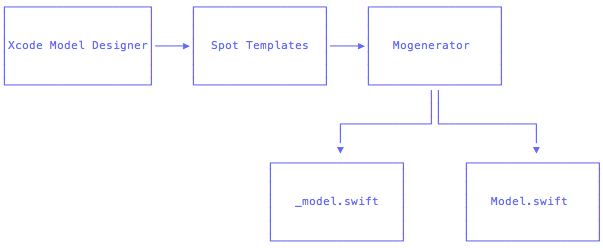
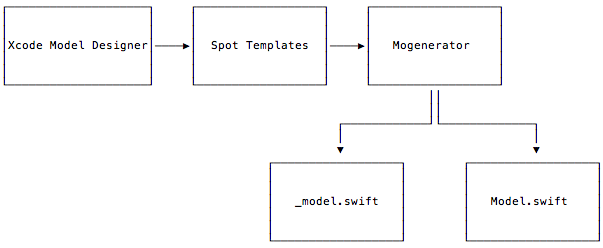
updating documentation

diff --git a/README.md b/README.md
@@ -2,7 +2,7 @@
 
 [![Carthage compatible](https://img.shields.io/badge/Carthage-compatible-4BC51D.svg?style=flat)](https://github.com/Carthage/Carthage)
 
-### A model framework for swift struct based models.
+#### A model framework for swift struct based models.
 Spot is a swift model framework that uses structs. You design models using [Xcode's Core Data model design tool](https://developer.apple.com/library/ios/recipes/xcode_help-core_data_modeling_tool/Articles/about_cd_modeling_tool.html#//apple_ref/doc/uid/TP40010379-CH3-SW1). Model code is  generated automatically using [Mogenerator](https://github.com/rentzsch/mogenerator) and provides serialization to and from Plists, XML Plists, or JSON.
 
                                                                                                                                                                                                                                                       
@@ -24,7 +24,7 @@ The process of creating your model is:
 2.  Run the model design file through mogenerator using the spot templates
 3.  Add the Spot framework and the model files to your poject
 
-![diagram1](https://cloud.githubusercontent.com/assets/84623/7276947/23cae810-e8db-11e4-8061-41a1dfd68d97.png)
+![diagram1](https://cloud.githubusercontent.com/assets/84623/7278477/bc7a567e-e8e3-11e4-834b-964161df058e.png)
   
 ## Designing your model in the Xcode model design tool
 
@@ -48,12 +48,27 @@ See the [Data Model Design Reference](https://github.com/amberstar/Spot/wiki/Dat
 
 ## Generating model code with Mogenerator
 
-### The model files
+### Install Mogenerator
+
+Mogenerator is used to generate your model code with the Spot templates. You can download Mogenerator [here](http://rentzsch.github.io/mogenerator/), or to install using [homebrew](http://mxcl.github.com/homebrew)  type `$ brew install mogenerator ` into your terminal.
+
+### Get the Spot template files
+If you downloaded the Spot project the templates are located in the [Templates](https://github.com/amberstar/Spot/tree/master/Templates) directory.
+
+### Run Mogenerator on your model design using the templates
+Type the following in to terminal to generate the model code files.
+
+```
+mogenerator --model <$path to your .xcdatamodeld file> --swift --template-path <$path to the spot templates directory> <$path to the output directory>
+```
+
+## About the model code files
+
 Two files for each entity in your model design are generated when you run Mogenerator.
 - _Model.swift
 - Model.swift  
 
-The file with the underscore prefix is the automatic file, and the other is the manual file. The automatic file is updated every time you regenerate your code after modifying the model design file. The manule file is only generated once the first time you generate code. Therefore the manual file is not overwritten and is safe for you to use for extending your models via. a swift extension.
+The file with the underscore prefix is the automatic file, and the other is the manual file. The automatic file is updated every time you regenerate your code after modifying the model design file. The manual file is only generated once the first time you generate code. Therefore the manual file is not overwritten and is safe for you to use for extending your models via. a swift extension.
 
 The manual file serves the following purposes:
 
@@ -61,10 +76,51 @@ The manual file serves the following purposes:
 - hook in to the encoding and decoding process, so you can read and write additional data during decoding and encoding if needed.
 - manage the versioning and migration of your models if and when needed.
 
+## Adding the code files and Spot framework to your project.
+
+### Adding the Spot  framework to your project
+
+#### Using Carthage
+
+[Carthage]: https://github.com/Carthage/Carthage
+
+Add the following to your Cartfile:
+
+```
+github "amberstar/Spot" ~> 0.1
+```
+
+Then run `carthage update`.
+
+Follow the current instructions in [Carthage's README][carthage-installation]
+for up to date installation instructions.
+
+#### As a Submodule
+1. Add Spot as a submodule by going to your project directory and enter the following:
+	`git submodule add https://github.com/amberstar/Spot.git`
+2. Open the Spot folder and drag and drop the Spot.xcodeproj into the file navigator of your workspace.
+
+3. In Xcode, select the project icon to open the target window and select your host target that will use Spot.
+
+4. Select the "Build Phases" tab in the target configuration window.
+
+5. Add Spot as a target dependency to your host target
+
+6. Click on the + button at the top left and select "New Copy Files Phase". Rename this new phase to "Copy Frameworks", set the "Destination" to "Frameworks", and add Spot.framework.
+
+[carthage-installation]: https://github.com/Carthage/Carthage#adding-frameworks-to-an-application
+
+###Adding the code files
+Drag the model code files in to your project to add them.
 
 
-###Serialization
-Serialization is done with data adapters provided in the Spot framework. Three data adapters are included:
+###Set up a target to automatically generate model code every time you build
+If you would like to make changes to your model as your working and automate updating the code
+see [How to set up a target to automatically generate model code every time you build.] (https://github.com/amberstar/Spot/wiki/How-to-set-up-a-target-to-automatically-generate-model-code-every-time-you-build-your-host.)
+
+
+##Serialization
+Serialization of models is done with data adapters provided in the Spot framework. Three data adapters are included:
 
 1. Data.swift to read and write binary plist files
 2. Plist.swift to reads and writes XML plist files
@@ -97,7 +153,7 @@ let loadedIssues: Issues? = Decoder.decodeModel(Plist.read(documentPathFor("issu
 ```
 
 
-### Versioning and Migration  
+## Versioning and Migration  
 Versioning and migration management is opt in. It allows you to fully control the version and migration of the models. The automatic layer of your model code passes delegation to the manual layer.  It's in the manual layer that you  specify and control all of the following:
 - if models should be versioned when encoded
 - a versionKey to use for the version encoding
@@ -107,47 +163,6 @@ Versioning and migration management is opt in. It allows you to fully control th
 - directly migrate raw key-value data to the current version before attempting to read a model
 
 When designing your model in the model designer, you can specify a version hash modifier signifying a new model version. This version modifier get's carried over to the model code so you can determine if a model version about to be decoded is a different version than the current version of your model code
-
-
-
-
-## Adding Spot to your project
-
-#### Using Carthage
-
-[Carthage]: https://github.com/Carthage/Carthage
-
-Add the following to your Cartfile:
-
-```
-github "amberstar/Spot" ~> 0.1
-```
-
-Then run `carthage update`.
-
-Follow the current instructions in [Carthage's README][carthage-installation]
-for up to date installation instructions.
-
-#### As a Submodule
-1. Add Spot as a submodule by going to your project directory and enter the following:
-	`git submodule add https://github.com/amberstar/Spot.git`
-2. Open the Spot folder and drag and drop the Spot.xcodeproj into the file navigator of your workspace.
-
-3. In Xcode, select the project icon to open the target window and select your host target that will use Spot.
-
-4. Select the "Build Phases" tab in the target configuration window.
-
-5. Add Spot as a target dependency to your host target
-
-6. Click on the + button at the top left and select "New Copy Files Phase". Rename this new phase to "Copy Frameworks", set the "Destination" to "Frameworks", and add Spot.framework.
-
-[carthage-installation]: https://github.com/Carthage/Carthage#adding-frameworks-to-an-application
-
-
-
-###3.  Set-up a target to automatically generate model code every time you build.
-
-See [The Wiki Page for instructions] (https://github.com/amberstar/Spot/wiki/How-to-set-up-a-target-to-automatically-generate-model-code-every-time-you-build-your-host.)
 
 ##System Requirements
 - Swift 1.2
